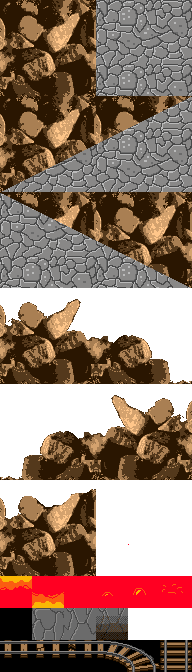
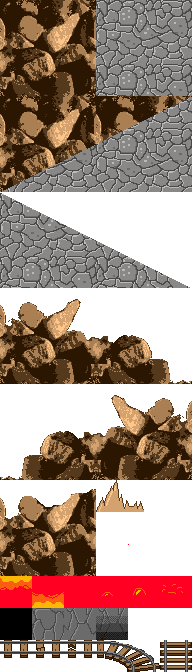
New background

Changed region(s): [[0.0312, 0.2812, 1.0, 0.4375], [0.0, 0.9375, 1.0, 1.0], [0.5, 0.7188, 0.75, 0.7812]]

diff --git a/src/game-main.js b/src/game-main.js
@@ -483,6 +483,42 @@ function animateLevel() {
 	}
 }
 
+function drawBackgrounds() {
+	const firstBlankPalette = vdp.palette('blank1').y;
+	const palMem = vdp.readPaletteMemory(0, firstBlankPalette, 16, 3, vdp.CopySource.blank);
+	for (let i = 0; i < 16; i++)  // Blue to red gradient
+		palMem.setElement(i, 0, vdp.color.make(i * 16, 0, 0x88 - i * 8));
+	for (let i = 1; i < 16; i++) 	// Red to yellow
+		palMem.setElement(i, 1, vdp.color.make(255, i * 16, 0));
+	const mountain = vdp.color.make('#d4a26e');
+	for (let i = 0; i < 16; i++)	// Mountain to black
+		palMem.setElement(i, 2, vdp.color.sub(mountain, vdp.color.make(i * 16, i * 16, i * 16)));
+	vdp.writePaletteMemory(0, firstBlankPalette, 16, 3, palMem);
+
+	const bgPos = camera.transform(0, 0);
+	const scrollY = Math.floor(bgPos.y / 16);
+	const mountainLimit = 112 + scrollY;
+	const colorSwap = new vdp.LineColorArray(0, 0);
+	// Color 0 will be transparent
+	vdp.configBackdropColor(palMem.getElement(0, 0));
+	for (let i = 0; i < 48; i++)
+		colorSwap.setLine(i, i / 3, firstBlankPalette);
+	for (let i = 4; i < mountainLimit; i++)
+		colorSwap.setLine(i + 44, Math.min(15, i / 4), firstBlankPalette + 1);
+	for (let i = mountainLimit; i < 256; i++)
+		colorSwap.setLine(i, Math.max(0, Math.min(15, (i - mountainLimit - 4) / 2)), firstBlankPalette + 2);
+	vdp.configColorSwap([colorSwap]);
+
+	vdp.drawBackgroundTilemap('level1-lo', { scrollX: -bgPos.x, scrollY: -bgPos.y, prio: 1 });
+	vdp.drawBackgroundTilemap('level1-hi', { scrollX: -bgPos.x, scrollY: -bgPos.y, prio: 13 });
+
+	// Draw mountains
+	const mountainTile = vdp.sprite('level1').tile(93).offsetted(0, 0, 48, 32);
+	const fineScroll = (-bgPos.x / 4) % 48;
+	for (let i = -fineScroll; i < 256; i += 48)
+		vdp.drawObject(mountainTile, i, mountainLimit - 32, { prio: 1 });
+}
+
 function drawObjects(perso) {
 	for (let i = 0; i < liveObjects.length; i++) {
 		if (camera.isVisible(liveObjects[i])) liveObjects[i].draw(perso);
@@ -531,12 +567,11 @@ let coroutines = new Coroutines();
 function *main(_vdp) { vdp = _vdp;
 	const fireLimitPos = 960;
 	//const perso = new Perso(100, 128);
-	const perso = new Perso(1200, 600);
-	//const perso = new Perso(2460, 50);
+	//const perso = new Perso(1200, 600);
+	const perso = new Perso(2460, 50);
 	const fire = new Fire();
 	let subscene = 0;
 
-	vdp.configBackdropColor('#000');
 	map = new Map('level1');
 	frameNo = 0;
 
@@ -568,9 +603,7 @@ function *main(_vdp) { vdp = _vdp;
 			if (camera.x < fireLimitPos) shakeScreen();
 		}
 
-		const bgPos = camera.transform(0, 0);
-		vdp.drawBackgroundTilemap('level1-lo', { scrollX: -bgPos.x, scrollY: -bgPos.y, prio: 1 });
-		vdp.drawBackgroundTilemap('level1-hi', { scrollX: -bgPos.x, scrollY: -bgPos.y, prio: 13 });
+		drawBackgrounds();
 		perso.draw();
 		drawObjects(perso);
 

diff --git a/gfx/packer-main.js b/gfx/packer-main.js
@@ -16,7 +16,7 @@ config({ compact: true, debug: true }, () => {
 			tileTypes: [
 				'0-2;6-8;12-14;18-21;24-25;38-41;46-47;66-69;86-89;97-98;102-104', 'wall',
 				'108-113', 'fire|void|goleft',
-				'114-117', 'void|nofall|godown',
+				'37;45;53;41;114-117', 'void|godown',
 			]
 		};
 		fs.writeFileSync('../src/level1.json', JSON.stringify(objects));
@@ -40,4 +40,8 @@ config({ compact: true, debug: true }, () => {
 		sprite('cart-lateral', 'cart-lateral.png');
 		sprite('cart-vertical', 'cart-vertical.png');
 	});
+
+	palette('blank1', () => {});
+	palette('blank2', () => {});
+	palette('blank3', () => {});
 });
